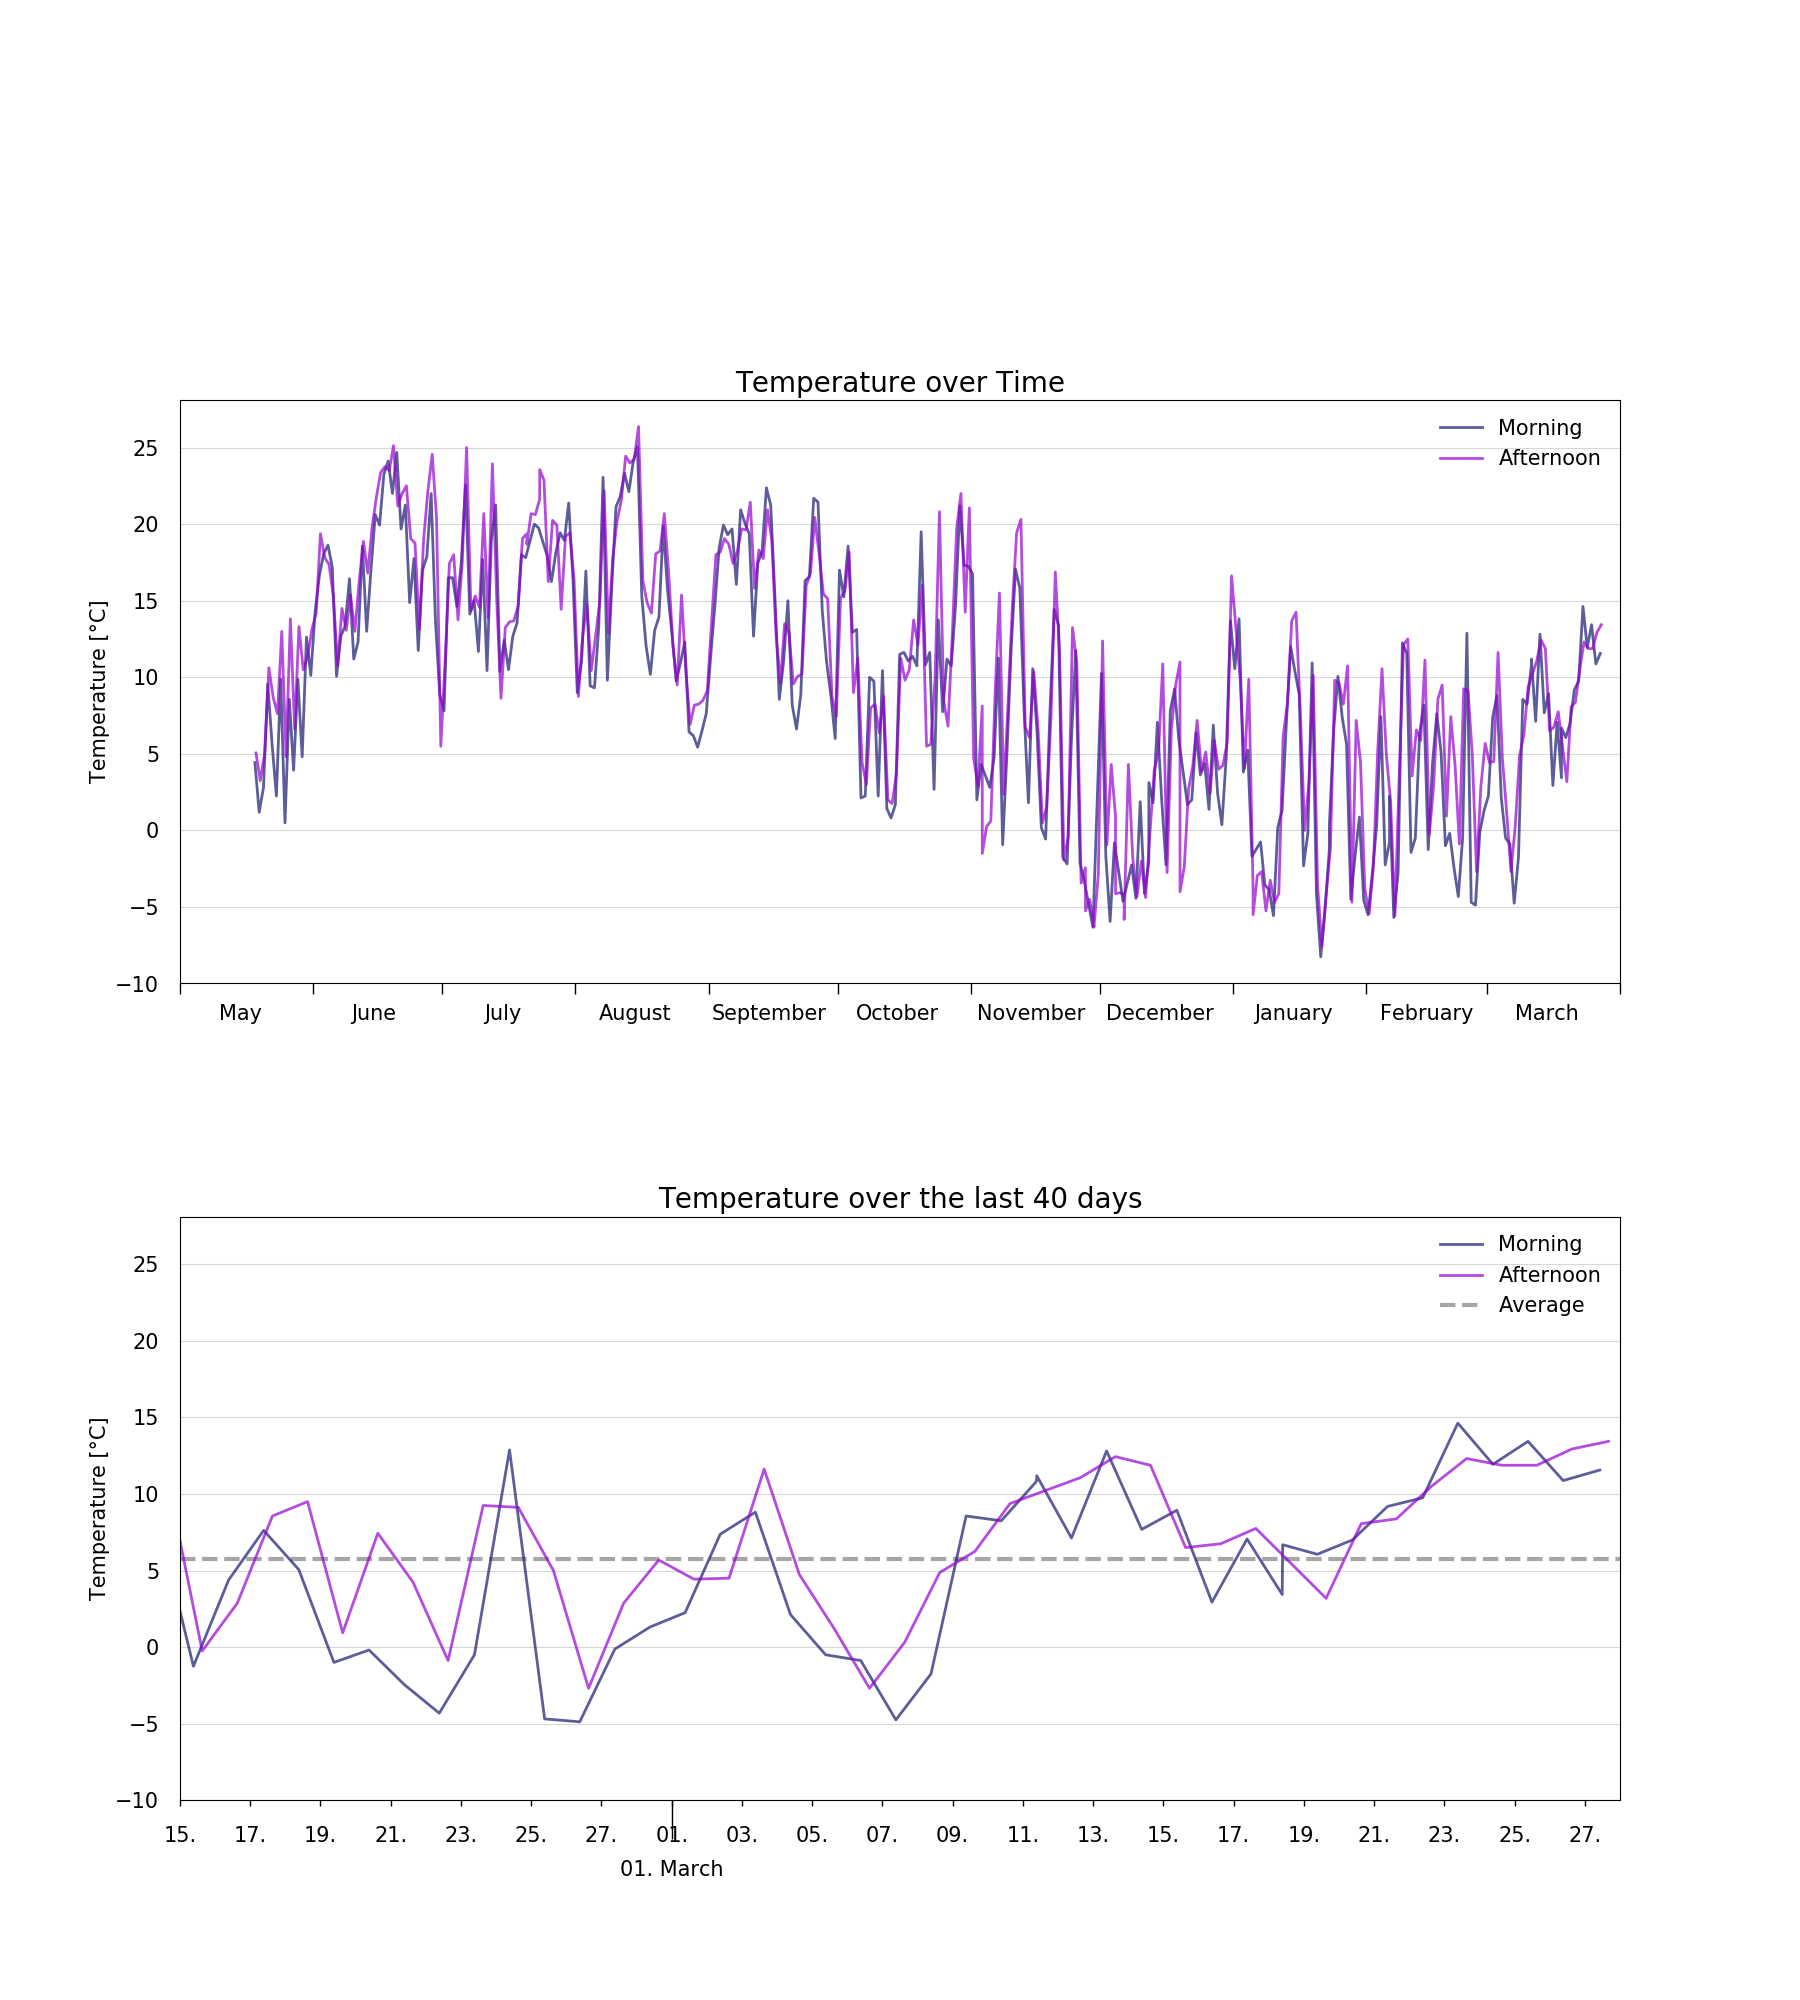
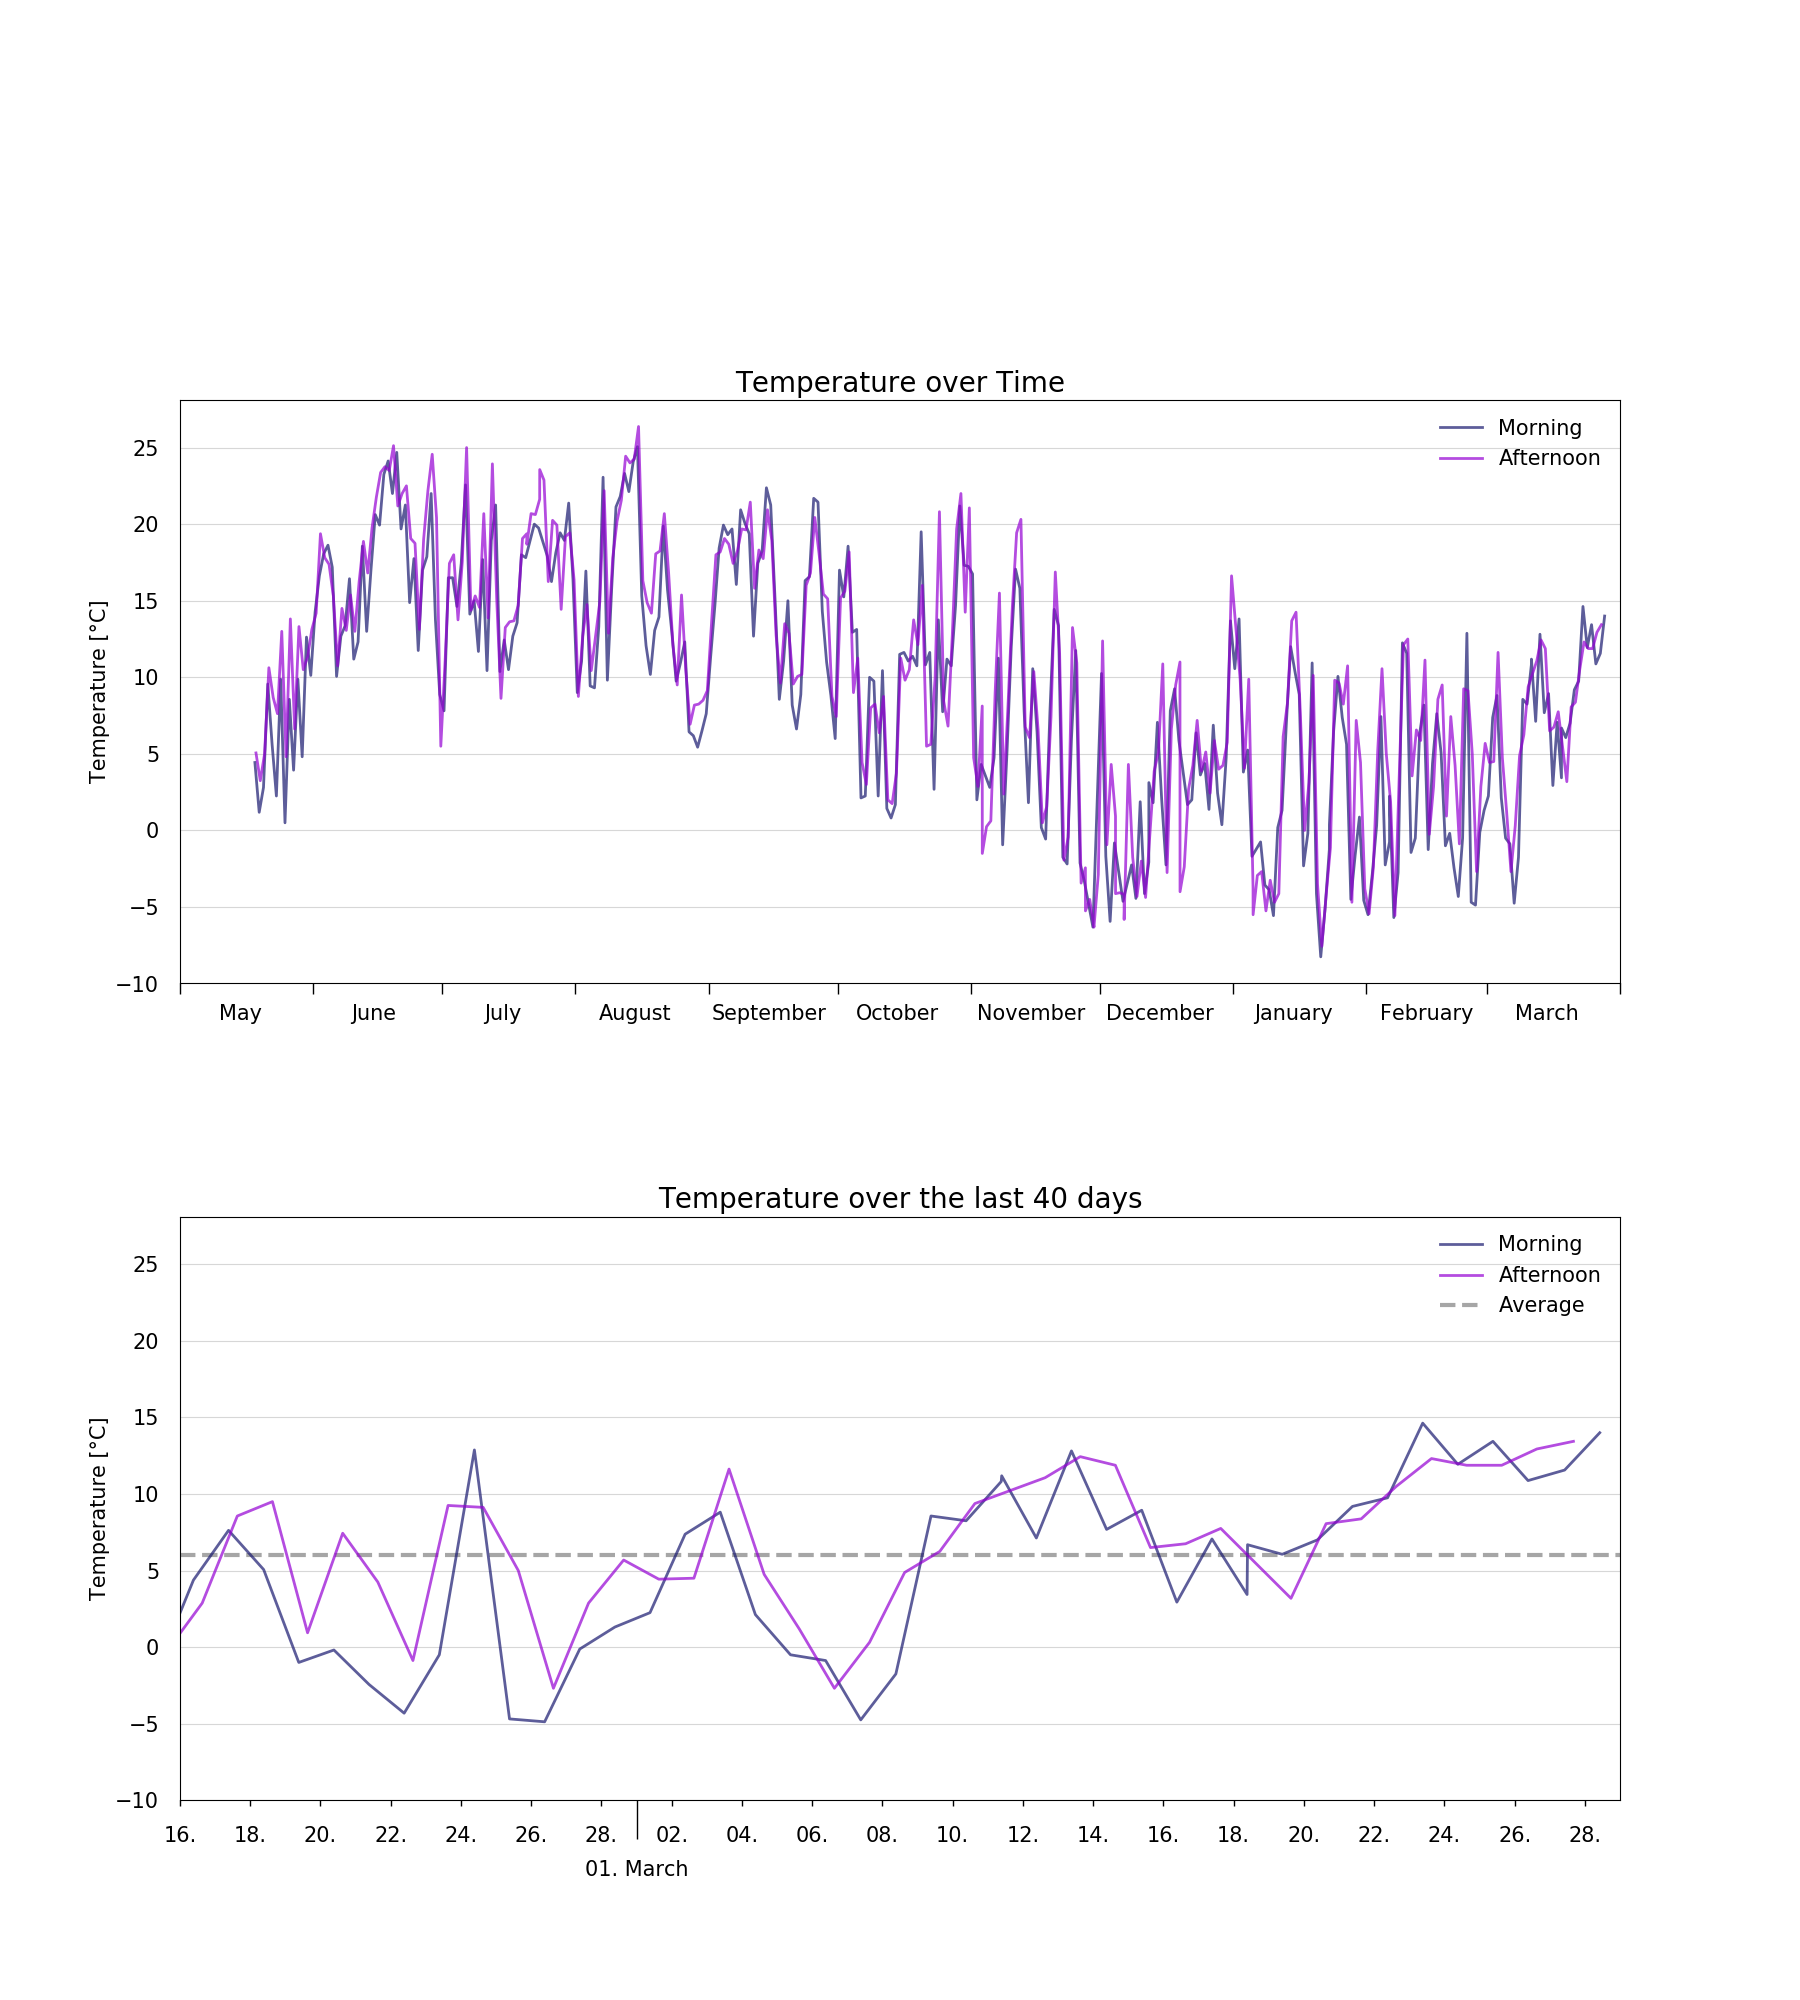
I'm a bot beep boop

Changed region(s): [[0.0933, 0.713, 0.7778, 0.868], [0.7778, 0.713, 0.9022, 0.744], [0.3422, 0.93, 0.4044, 0.961]]

diff --git a/resources/huette.md b/resources/huette.md
@@ -6,13 +6,13 @@ image: '/assets/img/'
 description: 'Live image from the Austrian alps'
 twitter_text: ' '
 ---
-## Latest image from 27 March 2022 at 16:11
+## Latest image from 28 March 2022 at 10:11
 <div class="huette">
   <div class="huette-image">
     <img src="{{ "/assets/img/huette.jpg" | prepend: site.baseurl }}">
   </div>
   <div class="huette-text">
-        <h2>Current Temperature: 13.437°C</h2>
+        <h2>Current Temperature: 14°C</h2>
         <p>A solar powered raspberry pi left alone in the wild is sending daily images and temperature data to this website. It should give you an impression about the current weather in the "Brixental".</p>
 
   </div>

diff --git a/rpi-script/huette.md b/rpi-script/huette.md
@@ -6,13 +6,13 @@ image: '/assets/img/'
 description: 'Live image from the Austrian alps'
 twitter_text: ' '
 ---
-## Latest image from 27 March 2022 at 16:11
+## Latest image from 28 March 2022 at 10:11
 <div class="huette">
   <div class="huette-image">
     <img src="{{ "/assets/img/huette.jpg" | prepend: site.baseurl }}">
   </div>
   <div class="huette-text">
-        <h2>Current Temperature: 13.437°C</h2>
+        <h2>Current Temperature: 14°C</h2>
         <p>A solar powered raspberry pi left alone in the wild is sending daily images and temperature data to this website. It should give you an impression about the current weather in the "Brixental".</p>
 
   </div>
